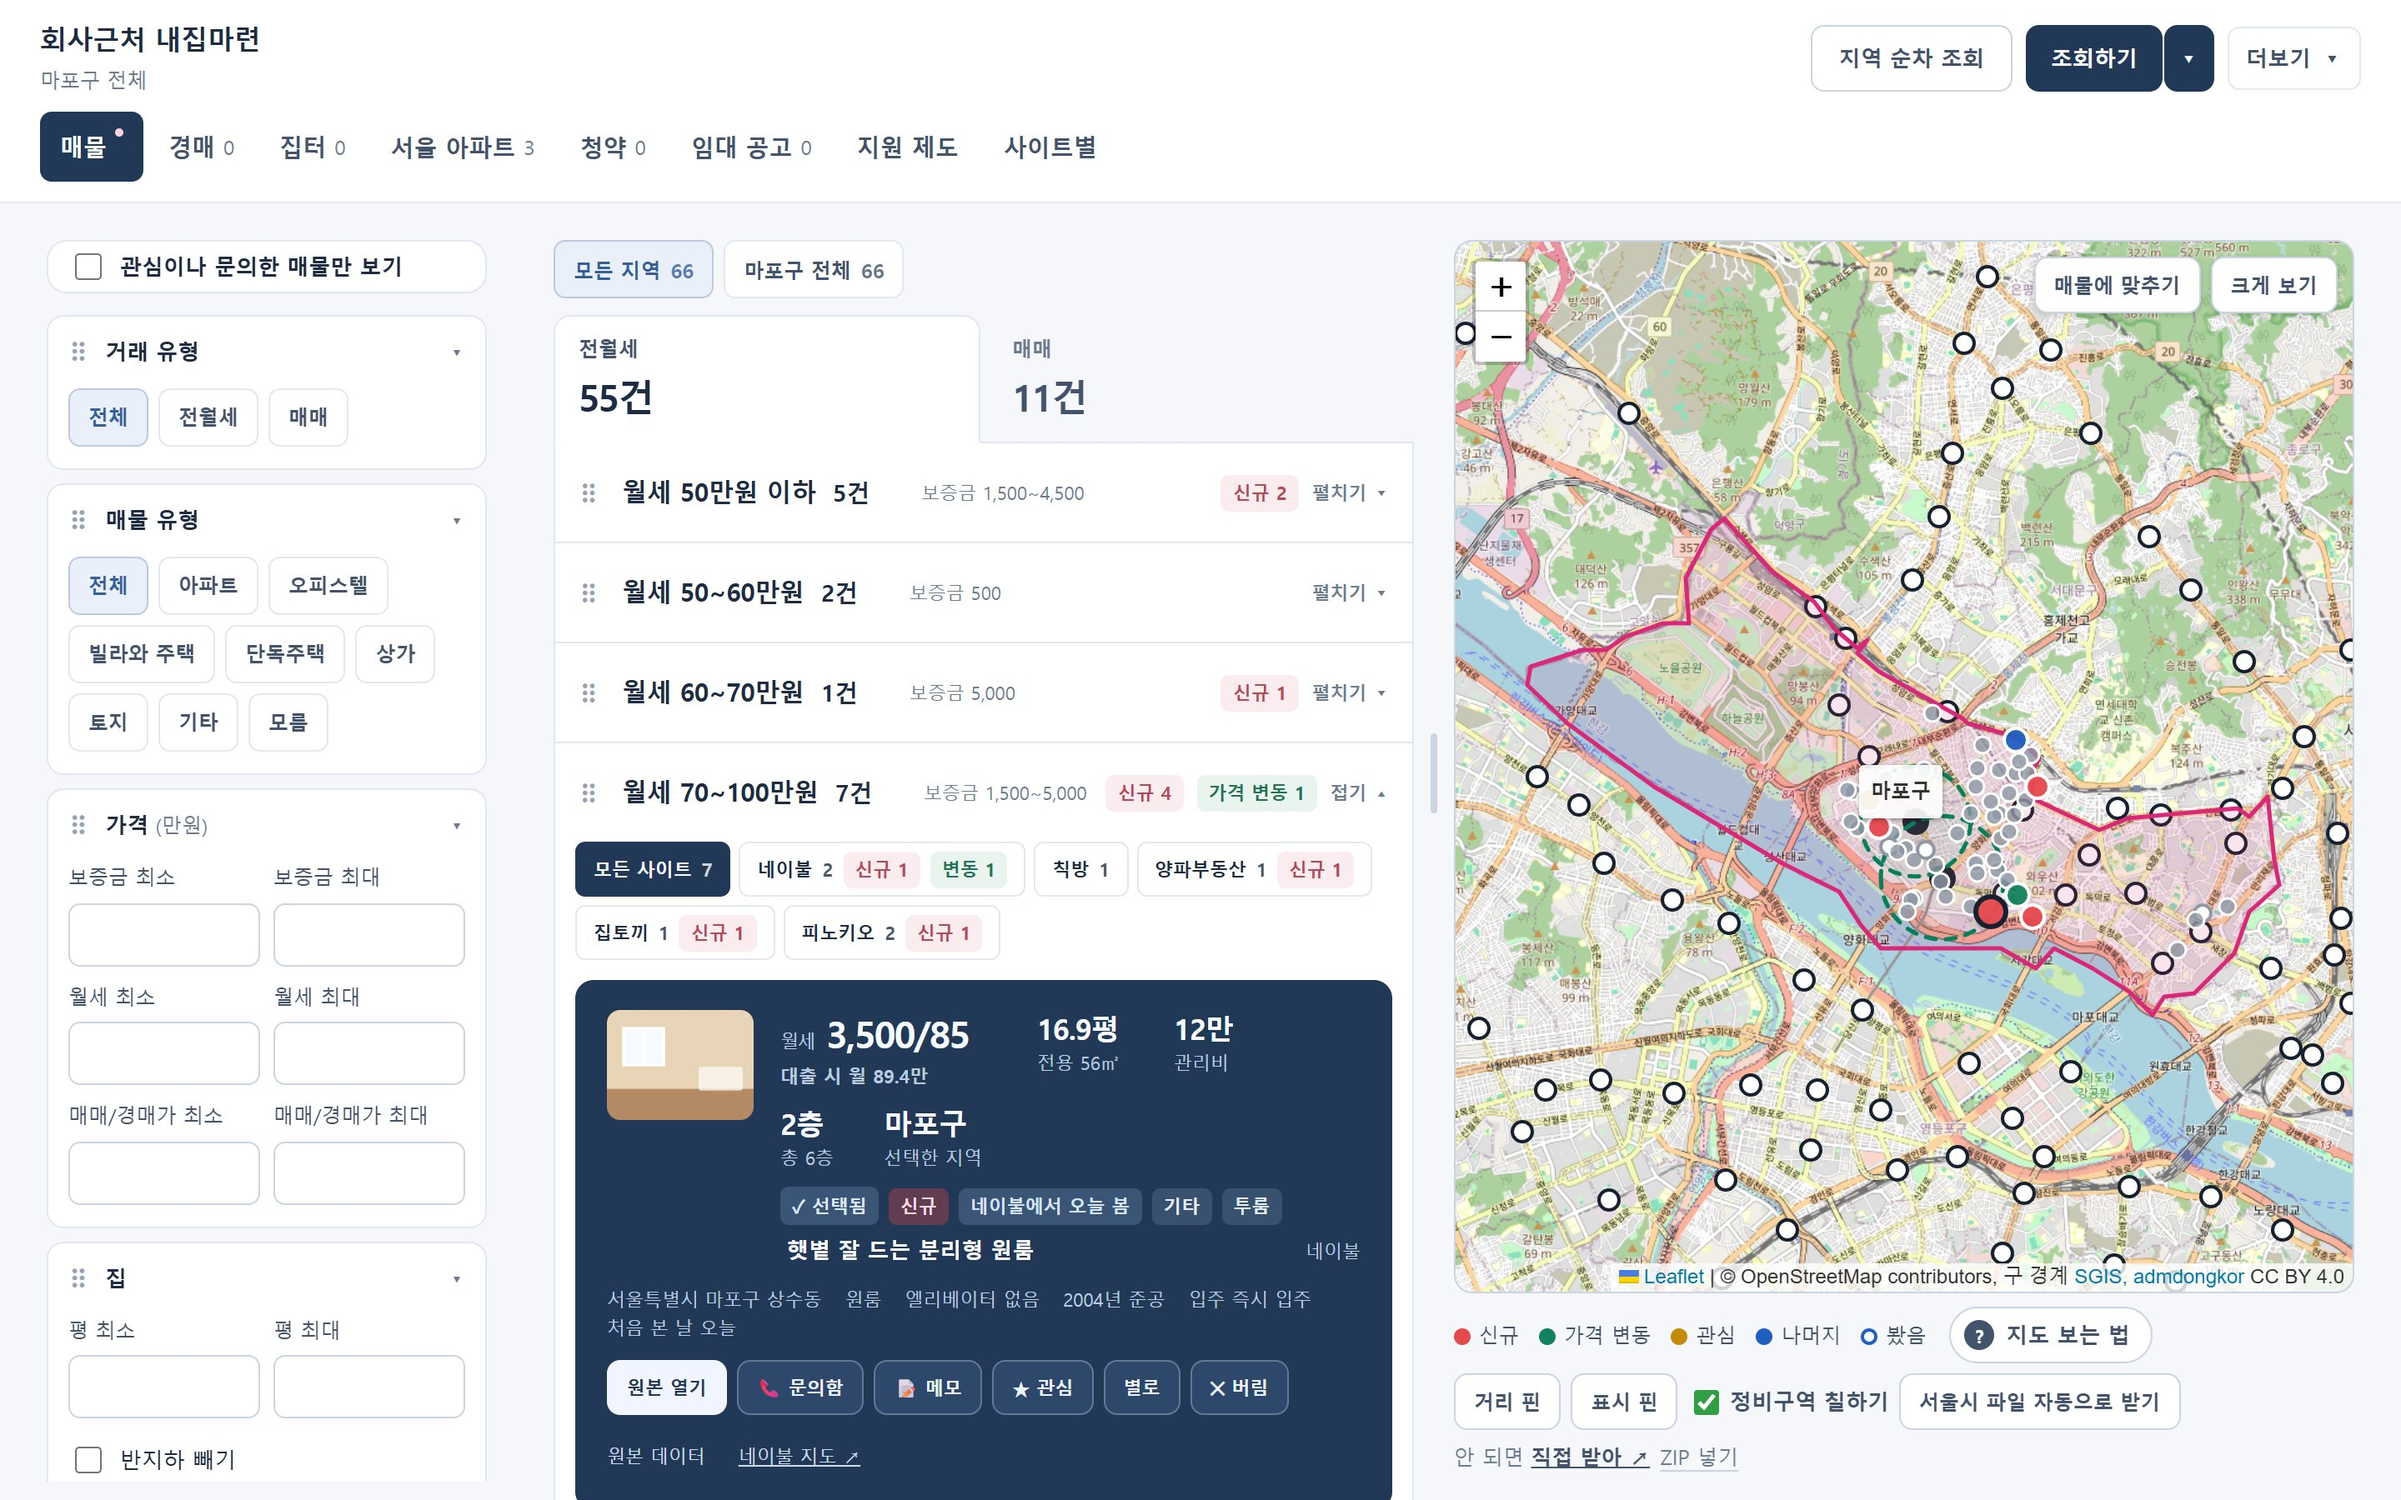
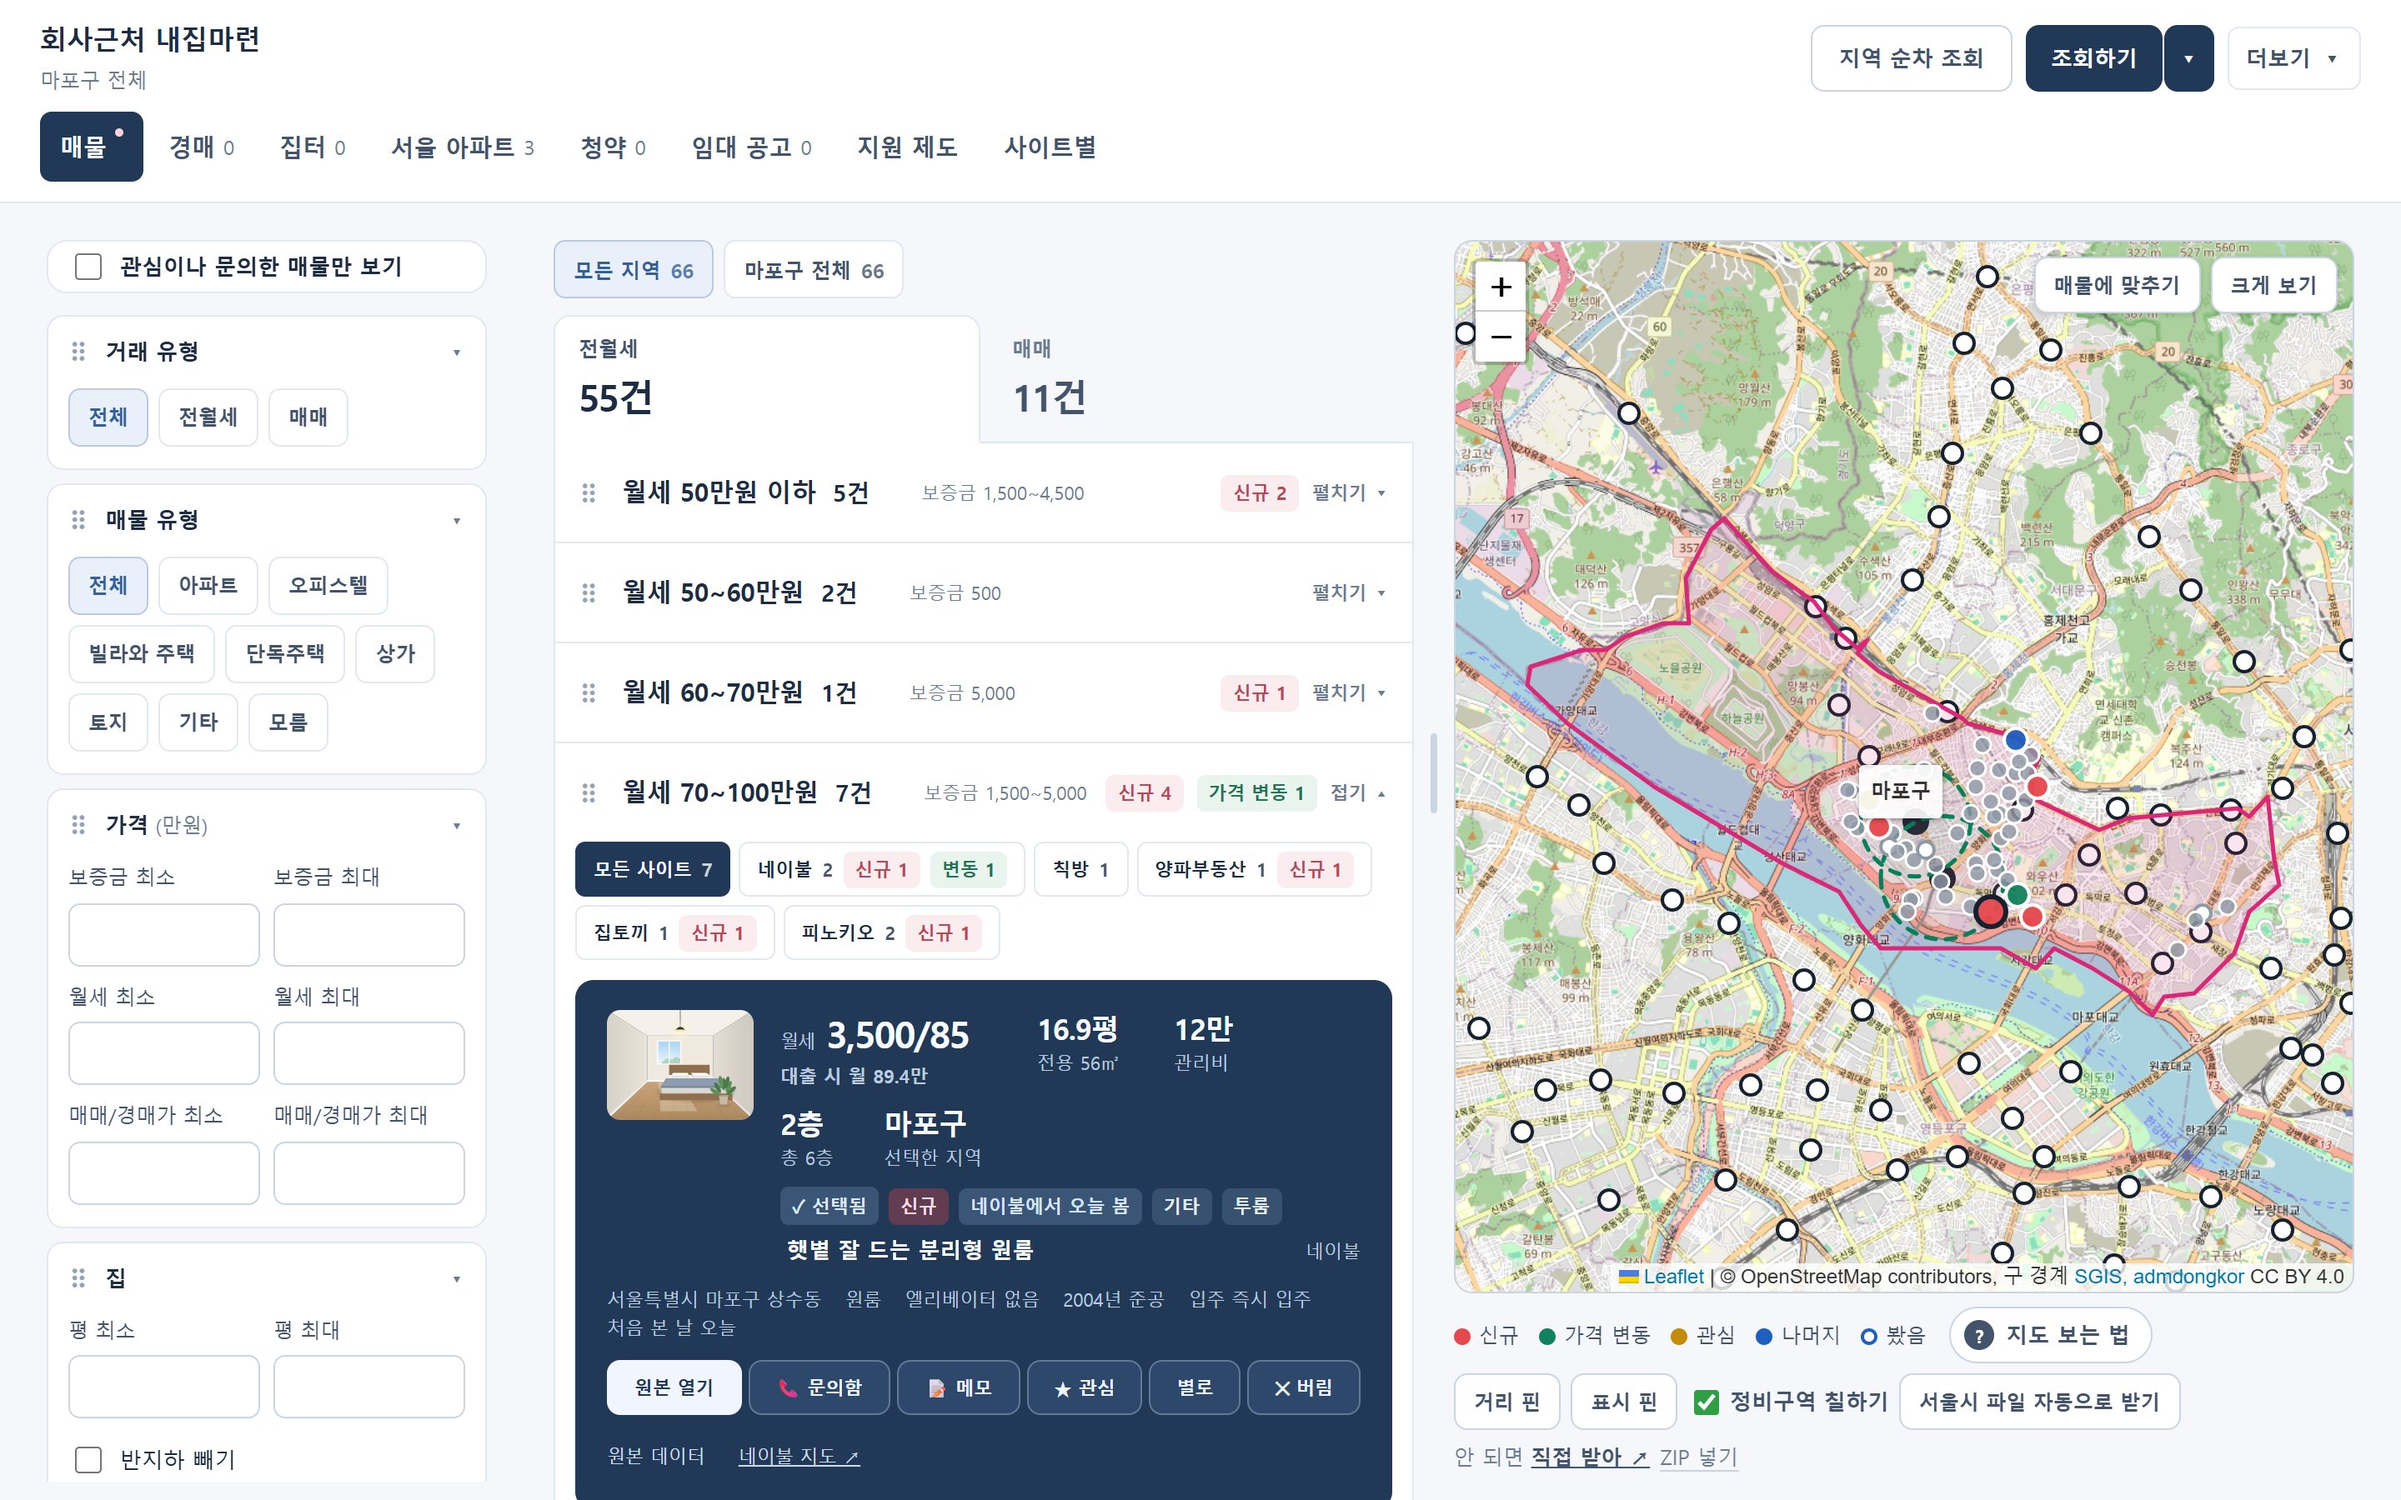
지도 옆 좁은 목록에서 매물 카드 버튼이 두 줄로 떨어지지 않게 하고, README 캡처의 매물 사진을 방 그림으로 다시 찍기

Changed region(s): [[0.25, 0.9022, 0.5625, 0.9333], [0.25, 0.6533, 0.3125, 0.7467]]

diff --git a/web/src/components/ListingCard.vue b/web/src/components/ListingCard.vue
@@ -488,7 +488,7 @@ const seenNaver = computed(() => (l.value.source === 'naver' ? l.value.lastSeenA
       'meta    more'
       'actions actions';
   }
-  .actions { flex-wrap: wrap; justify-content: flex-start; }
+  .actions { flex-wrap: nowrap; justify-content: flex-start; }
 }
 /* 더 좁으면 사진은 숫자 줄 옆에만 두고, 주소와 버튼은 카드 너비를 다 쓴다. 숫자 칸도 조금 좁힌다. */
 @container (max-width: 780px) {
@@ -503,7 +503,9 @@ const seenNaver = computed(() => (l.value.source === 'naver' ? l.value.lastSeenA
   .stat.price { min-width: 136px; }
   .stat.floor { min-width: 44px; }
   .stat.dist { width: 72px; }
-  .actions { display: flex; flex-wrap: wrap; justify-content: flex-start; }
+  /* 버튼 여섯 개를 한 줄에 두고, 자리가 모자라면 버튼 안쪽 여백부터 줄인다. */
+  .actions { display: flex; flex-wrap: nowrap; justify-content: flex-start; }
+  .actions .btn { flex: 1 1 auto; min-width: 0; overflow: hidden; }
   .more { justify-content: flex-start; margin-left: -8px; }
 }
 @container (max-width: 480px) {

diff --git a/web/src/workspace.css b/web/src/workspace.css
@@ -1066,3 +1066,9 @@ html[data-design='workspace'] .toast.err {
     transition: none;
   }
 }
+
+/* 지도 옆 좁은 목록: 카드 버튼을 한 줄에 두려고 버튼 안쪽 여백과 사이를 줄인다(ListingCard의 같은 폭 규칙과 짝). */
+@container (max-width: 780px) {
+  html[data-design='workspace'] .card .actions { gap: 4px; }
+  html[data-design='workspace'] .card .actions .btn { padding-inline: 6px; }
+}
